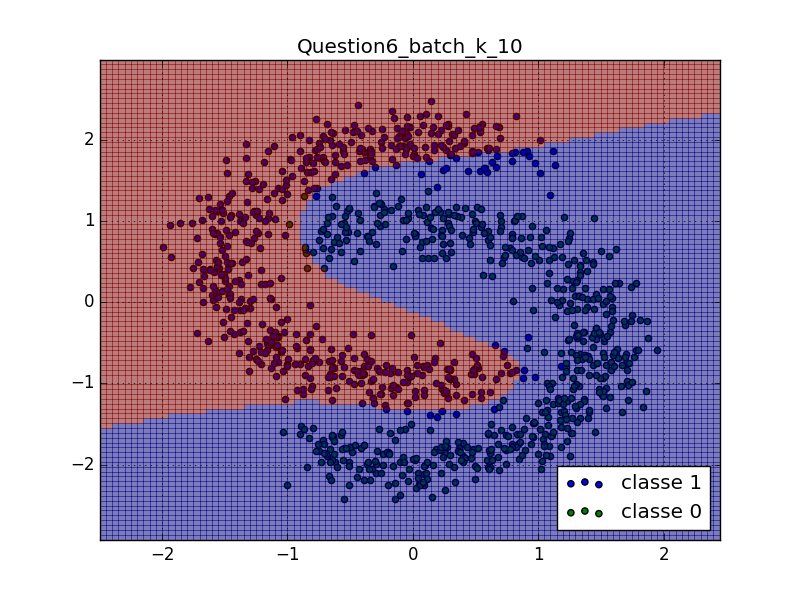
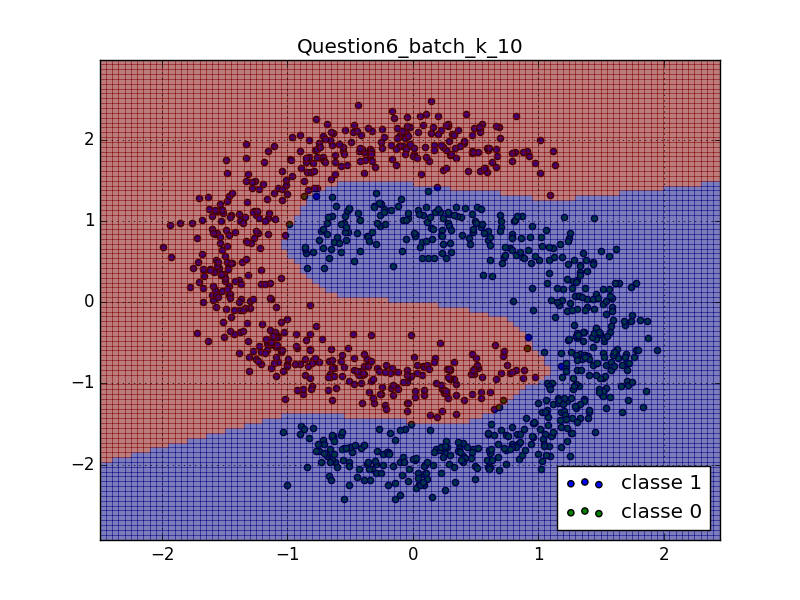
Progress with number 6

Changed region(s): [[0.125, 0.36, 0.6875, 0.78], [0.375, 0.18, 0.9062, 0.36]]

diff --git a/devoirs/d2/code/mlp.py b/devoirs/d2/code/mlp.py
@@ -1,7 +1,6 @@
 import math
 import numpy as np
 
-import matplotlib
 import matplotlib.pyplot as plt
 import pylab
 
@@ -58,42 +57,51 @@ class MLP:
             else:
                 print('Gradient error for element {0} X'.format(i))
 
-    def batch_train(self, train, target, lamdas, learning_rate, k):
+    def train(self, train, target, lamdas, learning_rate, k=None, iterations=100):
+        cursor = 0
         self.total_grad = 0
 
-        split_indices = list(range(k, train.shape[0], k))
-        train_splits = np.split(train, split_indices)
-        target_splits = np.split(target, split_indices)
+        if k is None:
+            batch_size = train.shape[0]
+        else:
+            batch_size = k
 
-        for i in list(range(0, len(train_splits) - 1, 1)):
-            x = train_splits[i]
-            y = target_splits[i]
+        for _ in range(iterations):
+            total_grad_w1 = 0
+            total_grad_w2 = 0
+            total_grad_b1 = 0
+            total_grad_b2 = 0
+            total_grad_oa = 0
 
-            self.train(x, y, lamdas, learning_rate)
+            for _ in range(batch_size):
+                x = train[cursor]
+                y = target[cursor]
 
-    def train(self, train, target, lamdas, learning_rate, iterations=None):
-        for i in list(range(train.shape[0])):
-            if iterations and i == iterations:
-                break
+                fprop_r = fprop(self.W1, self.W2, self.b1, self.b2, x, y)
+                bprop_r = bprop(fprop_r, self.W1, self.W2, self.b1, self.b2, x, y, self.m)
 
-            x = train[i]
-            y = target[i]
+                self.total_grad += np.sum(bprop_r['grad_oa'])
+                total_grad_w1 += bprop_r['grad_w1']
+                total_grad_w2 += bprop_r['grad_w2']
+                total_grad_b1 += bprop_r['grad_b1']
+                total_grad_b2 += bprop_r['grad_b2']
+                total_grad_oa += bprop_r['grad_oa']
 
-            fprop_r = fprop(self.W1, self.W2, self.b1, self.b2, x, y)
-            bprop_r = bprop(fprop_r, self.W1, self.W2, self.b1, self.b2, x, y, self.m)
+                cursor += 1
+                cursor = (cursor%train.shape[0])
 
-            self.total_grad += np.sum(bprop_r['grad_oa'])
+            self.total_grad += np.sum(total_grad_oa)
 
             regularization = lamdas[0, 0] * self.W1.sum() + \
                          lamdas[0, 1] * np.square(self.W1).sum() + \
                          lamdas[1, 0] * self.W2.sum() + \
                          lamdas[1, 1] * np.square(self.W2).sum()
 
-            self.W1 -= (learning_rate * bprop_r['grad_w1'] + regularization)
-            self.W2 -= (learning_rate * bprop_r['grad_w2'] + regularization)
+            self.W1 -= (learning_rate * (total_grad_w1 + regularization))
+            self.W2 -= (learning_rate * (total_grad_w2 + regularization))
 
-            self.b1 -= (learning_rate * bprop_r['grad_b1'] + regularization)
-            self.b2 -= (learning_rate * bprop_r['grad_b2'] + regularization)
+            self.b1 -= np.sum((learning_rate * total_grad_b1), axis=1)
+            self.b2 -= np.sum((learning_rate * total_grad_b2), axis=1)
 
     def show_decision_regions(self, train_data, title='region de décision'):
         def combine(*seqin):

diff --git a/devoirs/d2/code/mlp_batch.py b/devoirs/d2/code/mlp_batch.py
@@ -6,32 +6,37 @@ from devoirs.d2.code.mlp import MLP
 
 
 class MLPBatch(MLP):
-    def train(self, train, target, lamdas, learning_rate, k):
+    def train(self, train, target, lamdas, learning_rate, k=None, iterations=100):
         self.total_grad = 0
-        split_indices = list(range(k, train.shape[0], k))
-        train_splits = np.split(train, split_indices)
-        target_splits = np.split(target, split_indices)
+        cursor = 0
+        axis = 1
 
-        for i in list(range(0, len(train_splits) - 1, 1)):
-            x = train_splits[i]
-            y = target_splits[i]
+        if k is None:
+            batch_size = train.shape[0]
+        else:
+            batch_size = k
+
+        for _ in range(iterations):
+            x = np.roll(train, -1*cursor*batch_size, axis=0)[:batch_size]
+            y = np.roll(target, -1*cursor*batch_size, axis=0)[:batch_size]
 
             fprop_r = fprop(self.W1, self.W2, self.b1, self.b2, x, y)
             bprop_r = bprop(fprop_r, self.W1, self.W2, self.b1, self.b2, x, y, self.m)
 
-            self.total_grad += np.sum(bprop_r['grad_oa'] / k)
+            self.total_grad += np.sum(bprop_r['grad_oa'])
 
             regularization = lamdas[0, 0] * self.W1.sum() + \
                              lamdas[0, 1] * np.square(self.W1).sum() + \
                              lamdas[1, 0] * self.W2.sum() + \
                              lamdas[1, 1] * np.square(self.W2).sum()
 
-            self.W1 -= (learning_rate * (bprop_r['grad_w1'] + regularization) / k)
-            self.W2 -= (learning_rate * (bprop_r['grad_w2'] + regularization) / k)
+            self.W1 -= (learning_rate * (bprop_r['grad_w1'] + regularization))
+            self.W2 -= (learning_rate * (bprop_r['grad_w2'] + regularization))
 
-            axis = 1
-            self.b1 -= (learning_rate * (np.sum(bprop_r['grad_b1'], axis=axis) + regularization))
-            self.b2 -= (learning_rate * (np.sum(bprop_r['grad_b2'], axis=axis) + regularization))
+            self.b1 -= np.sum((learning_rate * bprop_r['grad_b1']), axis=axis)
+            self.b2 -= np.sum((learning_rate * bprop_r['grad_b2']), axis=axis)
+
+            cursor += 1
 
     def verify_gradient(self, train, target, k):
         x = train[:k]

diff --git a/devoirs/d2/questions/question_6.py b/devoirs/d2/questions/question_6.py
@@ -6,11 +6,12 @@ from devoirs.d2.code.mlp import MLP
 dh = 300
 d = 2
 m = 2
-k = 10
+k = 100
+iterations = 1000
 epsilon = 1e-5
 
-lamdas = np.matrix([[0.001, 0.0001],[0.0001, 0.00006]])
-learning_rate = 0.26
+lamdas = np.matrix([[0.001, 0.0001],[0.001, 0.00006]])
+learning_rate = 0.019
 
 data = np.matrix(np.loadtxt(open('../2moons.txt', 'r')))
 
@@ -20,9 +21,18 @@ train = data[:, :-1]
 target = data[:, -1].getA1()
 
 nnet_batch = MLPBatch(d, m, dh, epsilon)
-nnet_batch.train(train, target, lamdas, learning_rate, k=k)
+nnet = MLP(d, m, dh, epsilon)
+
+nnet.W1 = nnet_batch.W1.copy()
+nnet.W2 = nnet_batch.W2.copy()
+nnet.b1 = nnet_batch.b1.copy()
+nnet.b2 = nnet_batch.b2.copy()
+
+nnet_batch.train(train, target, lamdas, learning_rate , k, iterations=iterations)
 nnet_batch.show_decision_regions(data, title='Question6_batch_k_10')
 
-nnet = MLP(d, m, dh, epsilon)
-nnet.batch_train(train, target, lamdas, learning_rate, k=k)
+nnet.train(train, target, lamdas, learning_rate, k, iterations=iterations)
 nnet.show_decision_regions(data, title='Question6_boucle_k_10')
+
+print(nnet_batch.total_grad)
+print(nnet.total_grad)
